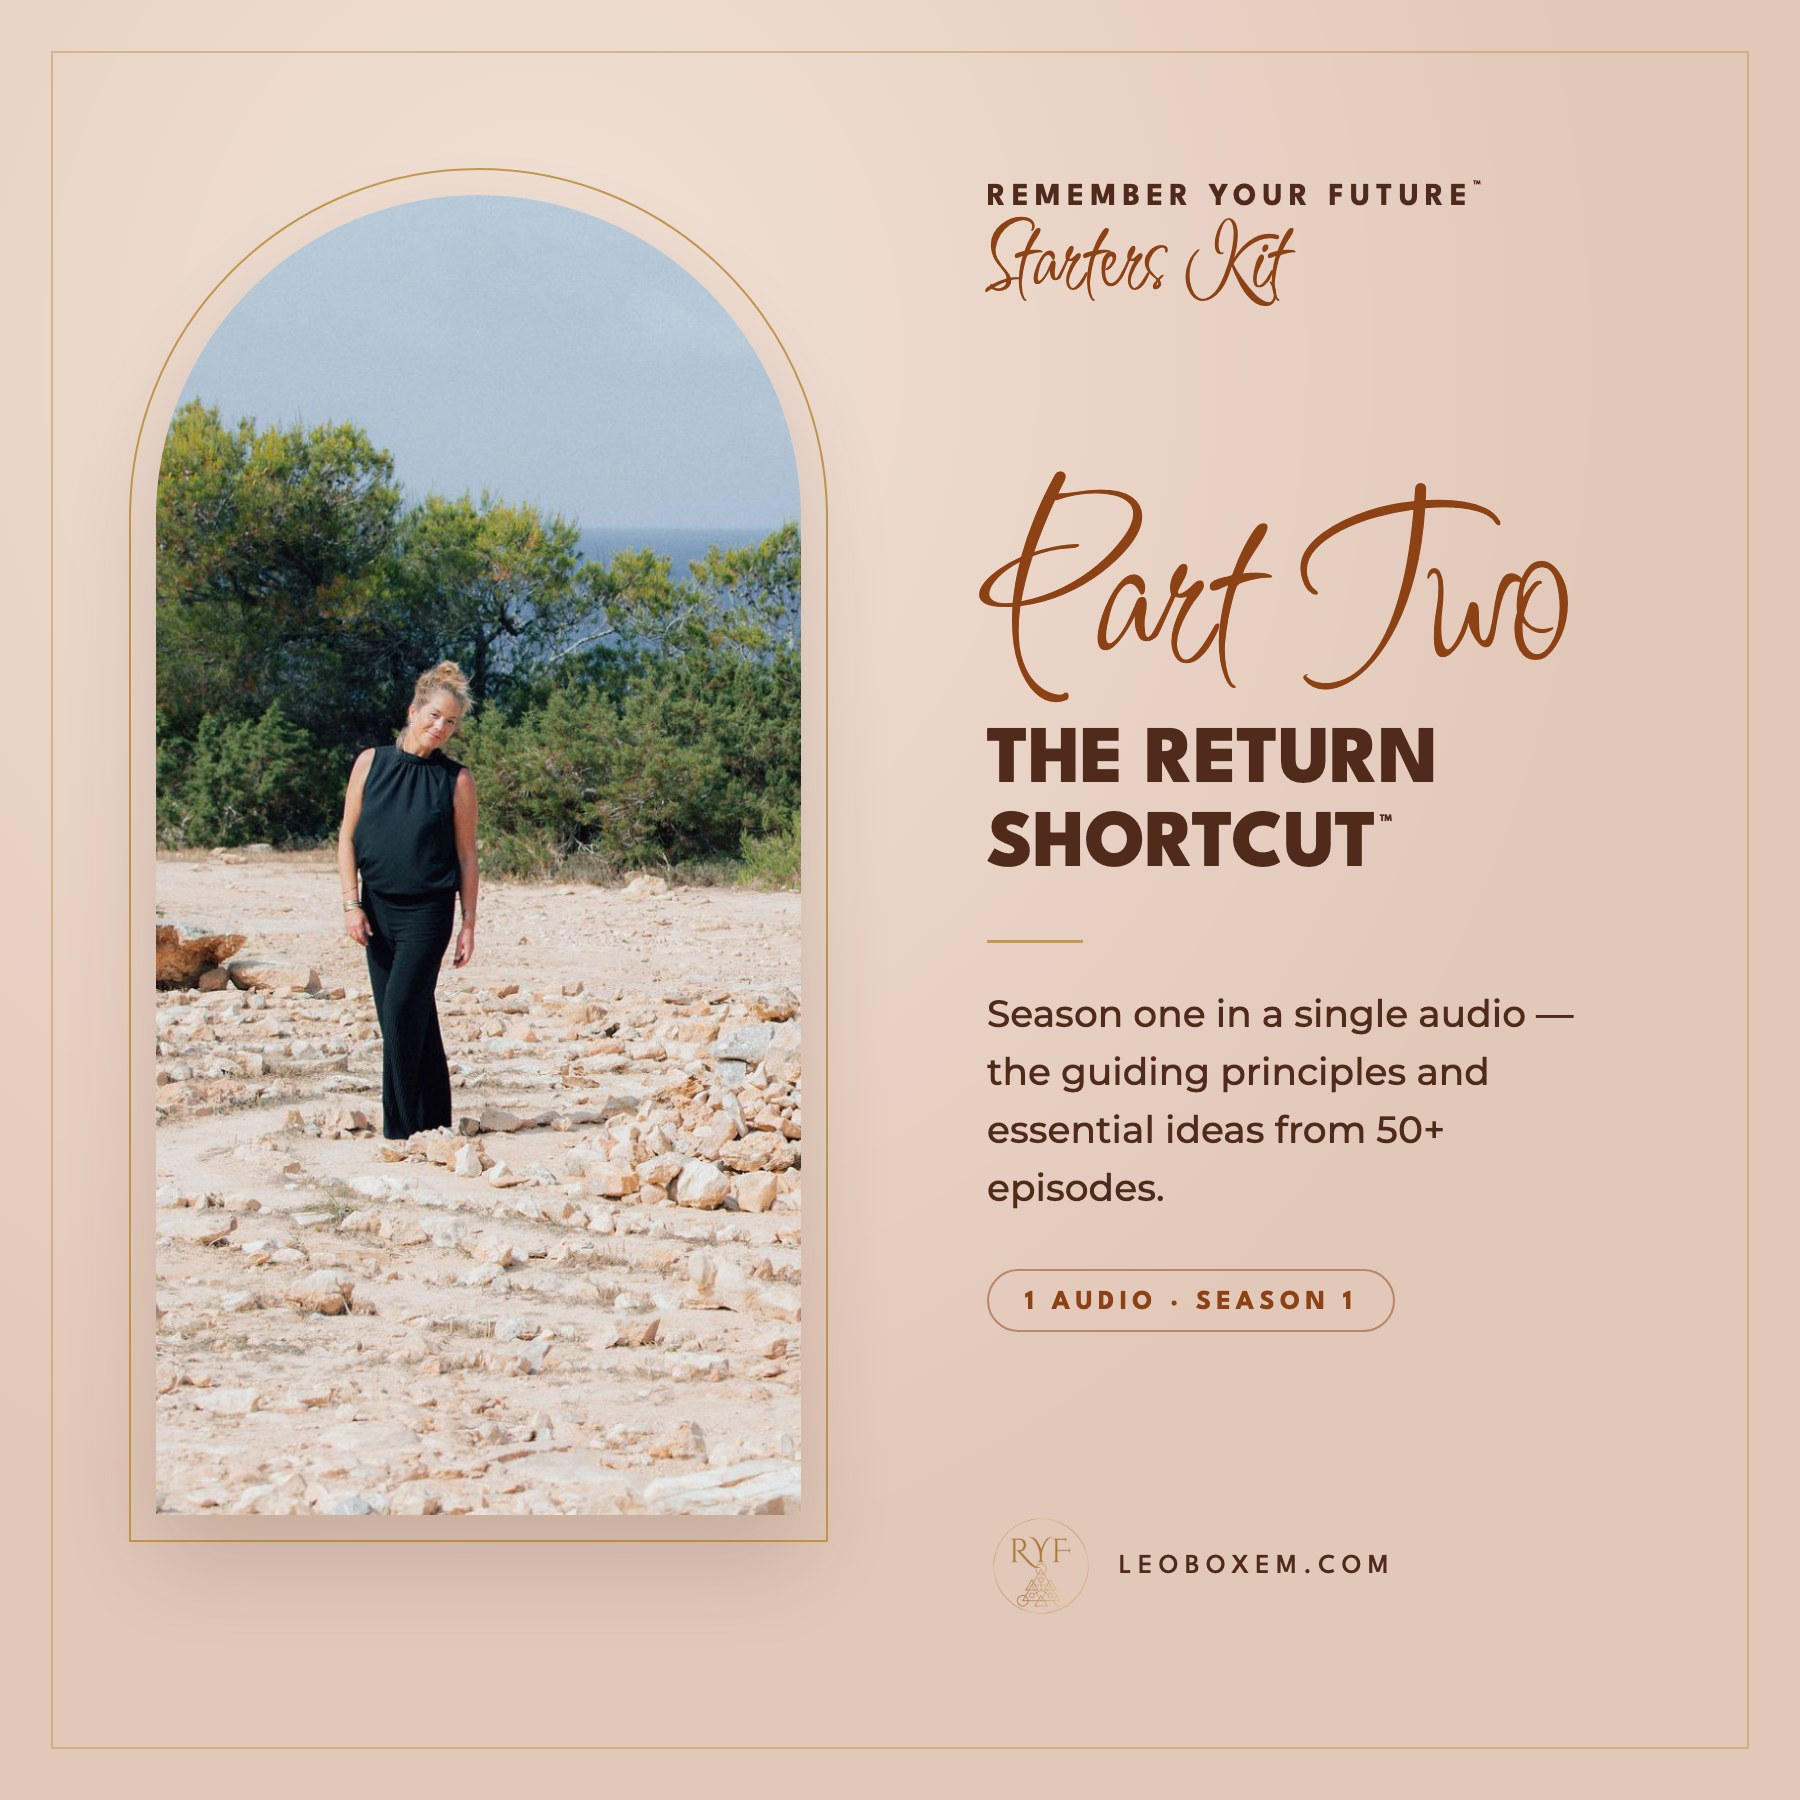
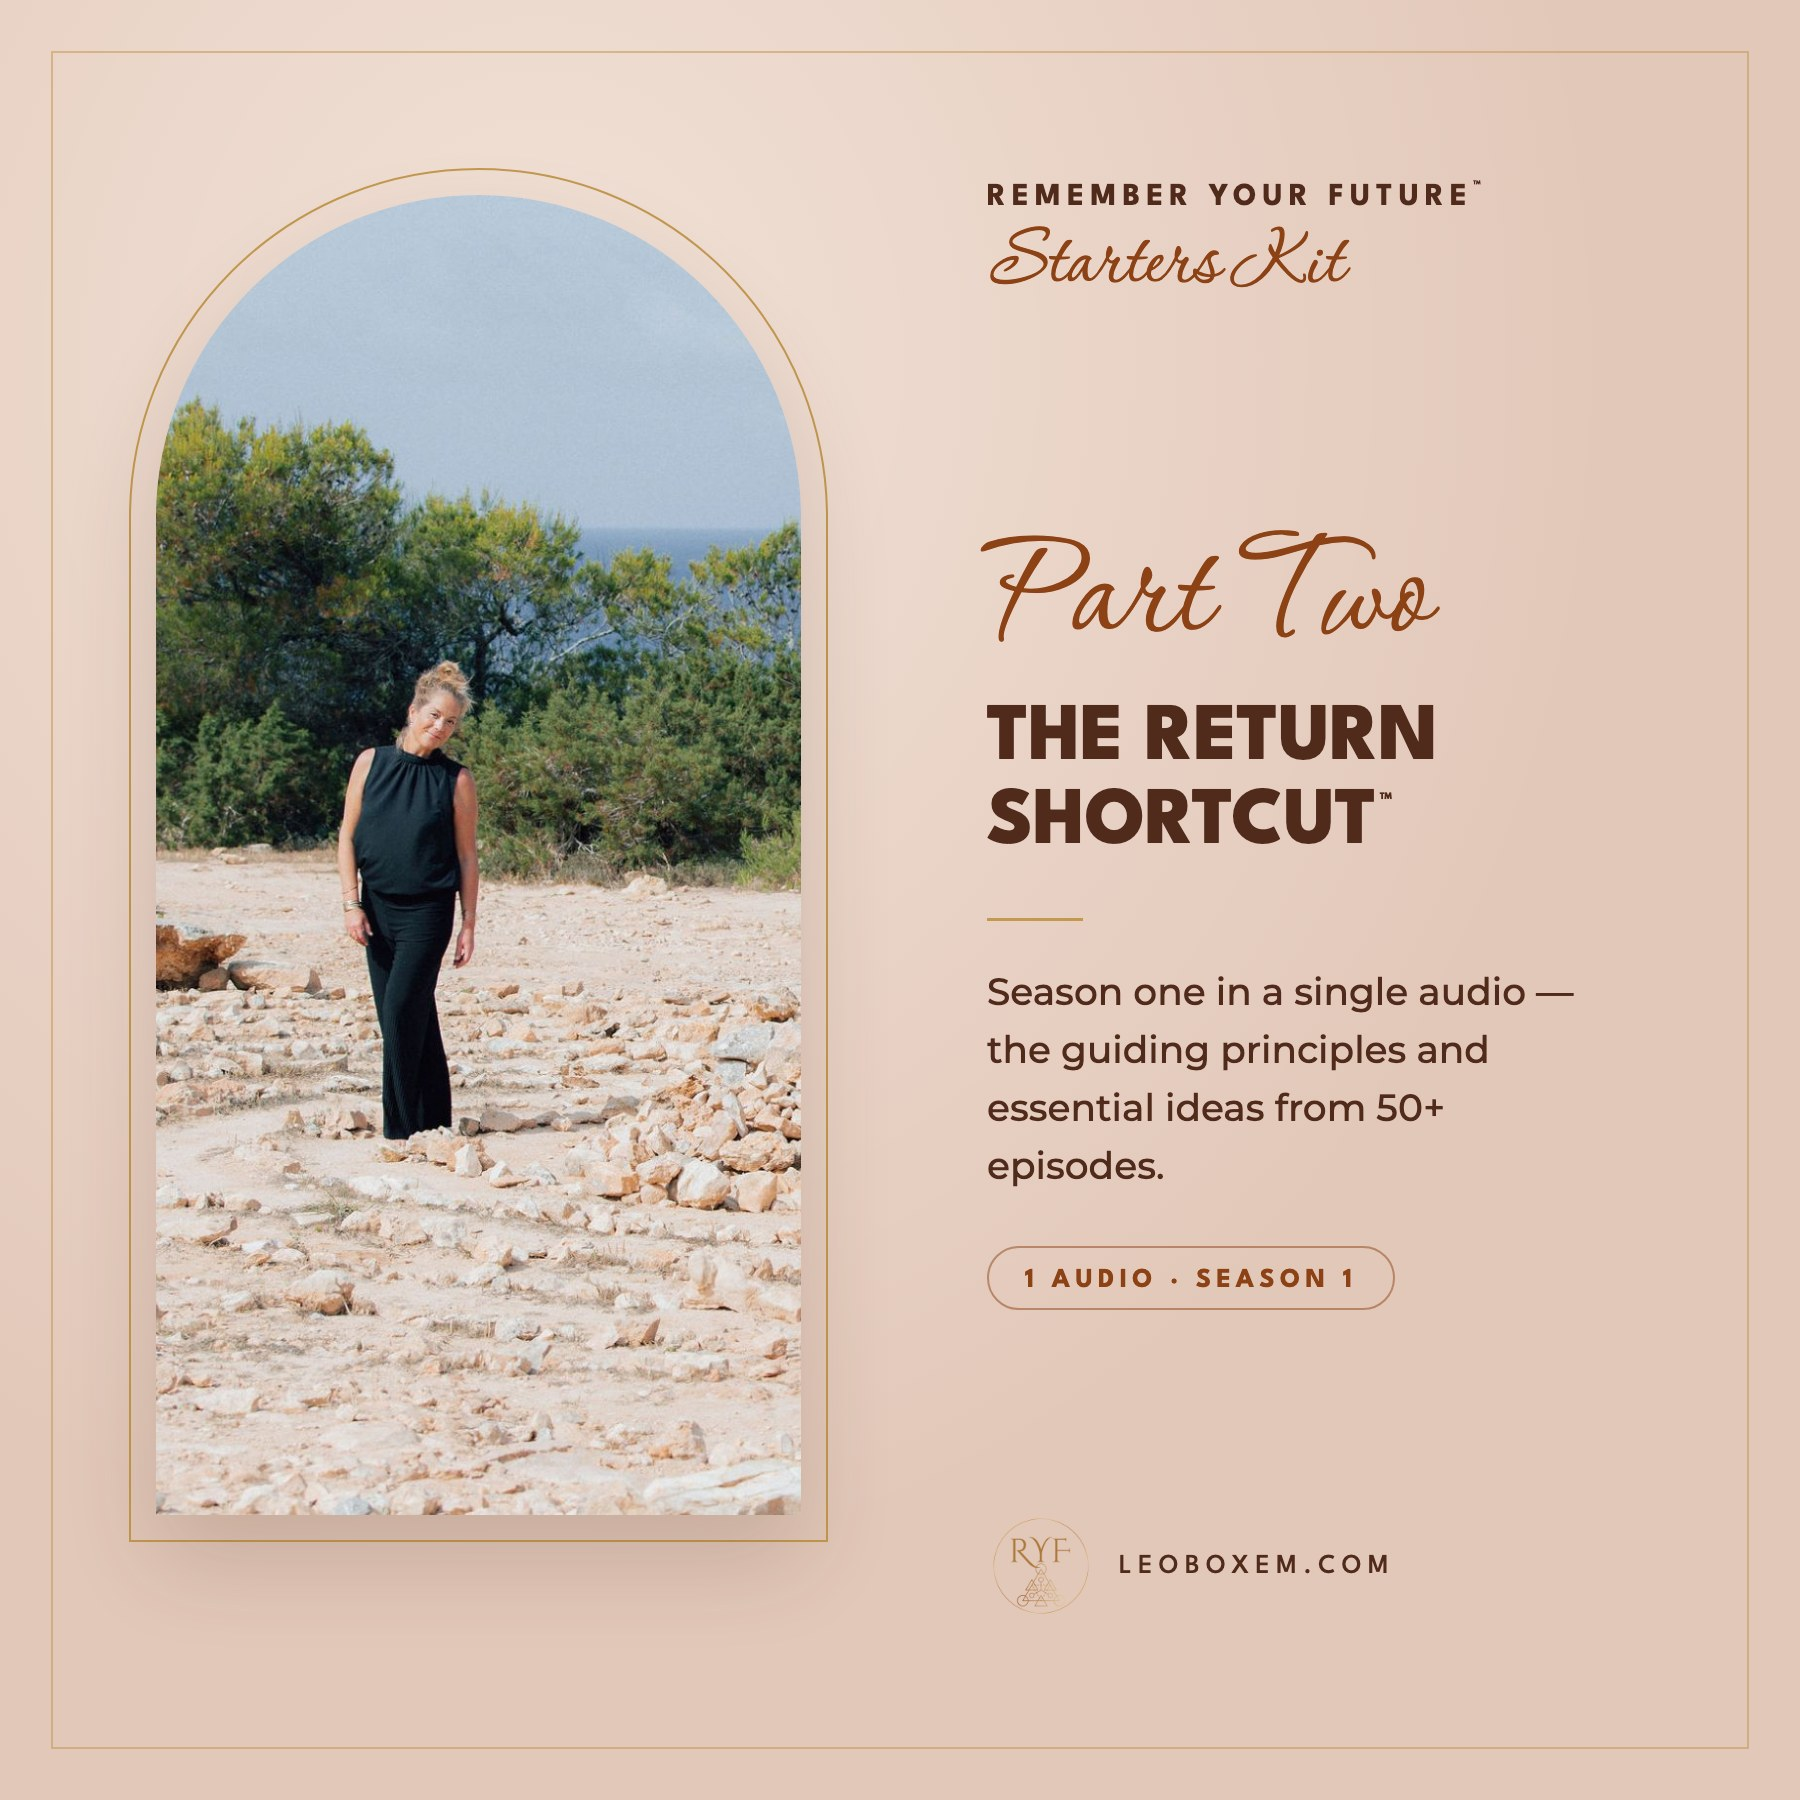
Gift to Remember: switch script accents to Corinthia; squares photo-left with Corinthia

Changed region(s): [[0.5289, 0.2489, 0.8711, 0.7467], [0.5289, 0.1244, 0.7467, 0.1867]]

diff --git a/gift-to-remember/index.html b/gift-to-remember/index.html
@@ -18,7 +18,7 @@
   <link rel="icon" type="image/png" href="../images/ryf-favicon.png">
   <link rel="preconnect" href="https://fonts.googleapis.com">
   <link rel="preconnect" href="https://fonts.gstatic.com" crossorigin>
-  <link href="https://fonts.googleapis.com/css2?family=League+Spartan:wght@400;600;700;800&family=Playfair+Display:ital,wght@0,400;0,500;1,400;1,500&family=Montserrat:ital,wght@0,400;0,500;0,600;0,700;1,400&family=Outfit:wght@500;600;700;800&family=Inspiration&family=Cormorant+Garamond:ital,wght@0,400;0,500;1,400;1,500;1,700&display=swap" rel="stylesheet">
+  <link href="https://fonts.googleapis.com/css2?family=League+Spartan:wght@400;600;700;800&family=Playfair+Display:ital,wght@0,400;0,500;1,400;1,500&family=Montserrat:ital,wght@0,400;0,500;0,600;0,700;1,400&family=Outfit:wght@500;600;700;800&family=Corinthia:wght@400;700&family=Cormorant+Garamond:ital,wght@0,400;0,500;1,400;1,500;1,700&display=swap" rel="stylesheet">
   <script>if(!window.circleFormsScriptLoaded){window.circleFormsScriptLoaded=true;const script=document.createElement('script');script.src='https://leoboxem.circle.so/external/form-embeds.js';script.defer=true;document.head.appendChild(script)}</script>
 
   <style>
@@ -101,7 +101,7 @@
     .intro-inner { max-width: 760px; margin: 0 auto; }
     h1.kit-title { font-family: 'Outfit', sans-serif; font-size: clamp(30px, 4.6vw, 54px); font-weight: 800; line-height: 1.1; letter-spacing: -0.01em; color: var(--dark-brown); text-transform: uppercase; margin-bottom: 28px; }
     h1.kit-title .sub { display: block; font-family: var(--f-head); font-size: 15px; font-weight: 700; letter-spacing: 0.24em; color: var(--red-brown); margin-top: 16px; }
-    h1.kit-title em { display: block; font-family: 'Inspiration', cursive; font-style: normal; font-weight: 400; text-transform: none; font-size: 1.7em; line-height: 1; letter-spacing: 0; color: var(--red-brown); margin-top: 4px; }
+    h1.kit-title em { display: block; font-family: 'Corinthia', cursive; font-style: normal; font-weight: 400; text-transform: none; font-size: 1.55em; line-height: 1; letter-spacing: 0; color: var(--red-brown); margin-top: 4px; }
     .intro-text { font-size: clamp(17px, 1.6vw, 19px); line-height: 1.85; color: var(--dark-brown); }
 
     /* 4 — INSIDE LIST: compact 2×2 on desktop, single column on phone */
@@ -119,7 +119,7 @@
     #download { background: var(--blush); text-align: center; scroll-margin-top: 66px; }
     .form-inner { max-width: 600px; margin: 0 auto; }
     #download h2 { font-family: 'Outfit', sans-serif; font-size: clamp(26px, 3.6vw, 42px); font-weight: 700; line-height: 1.15; color: var(--dark-brown); margin-bottom: 14px; }
-    #download h2 em { font-family: 'Inspiration', cursive; font-style: normal; font-weight: 400; font-size: 1.6em; line-height: 1; color: var(--red-brown); }
+    #download h2 em { font-family: 'Corinthia', cursive; font-style: normal; font-weight: 400; font-size: 1.45em; line-height: 1; color: var(--red-brown); }
     .form-sub { font-size: 16px; line-height: 1.75; color: var(--dark-brown); margin-bottom: 36px; }
     .form-card { background: var(--white); border-radius: 16px; padding: 40px 36px; box-shadow: 0 14px 40px rgba(80,42,26,.12); text-align: left; }
 
